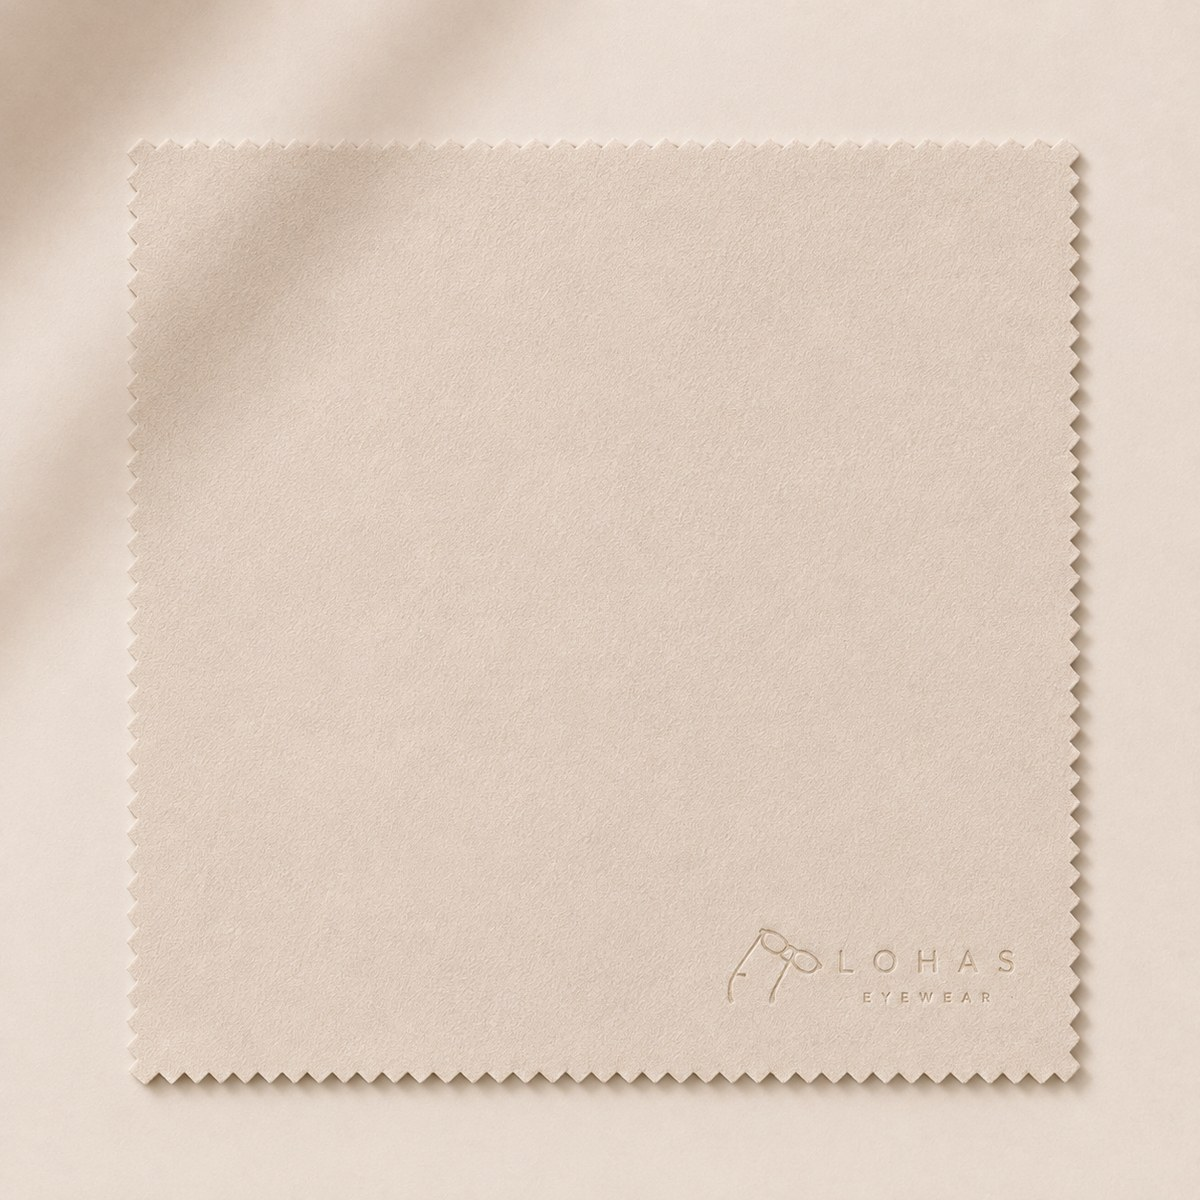
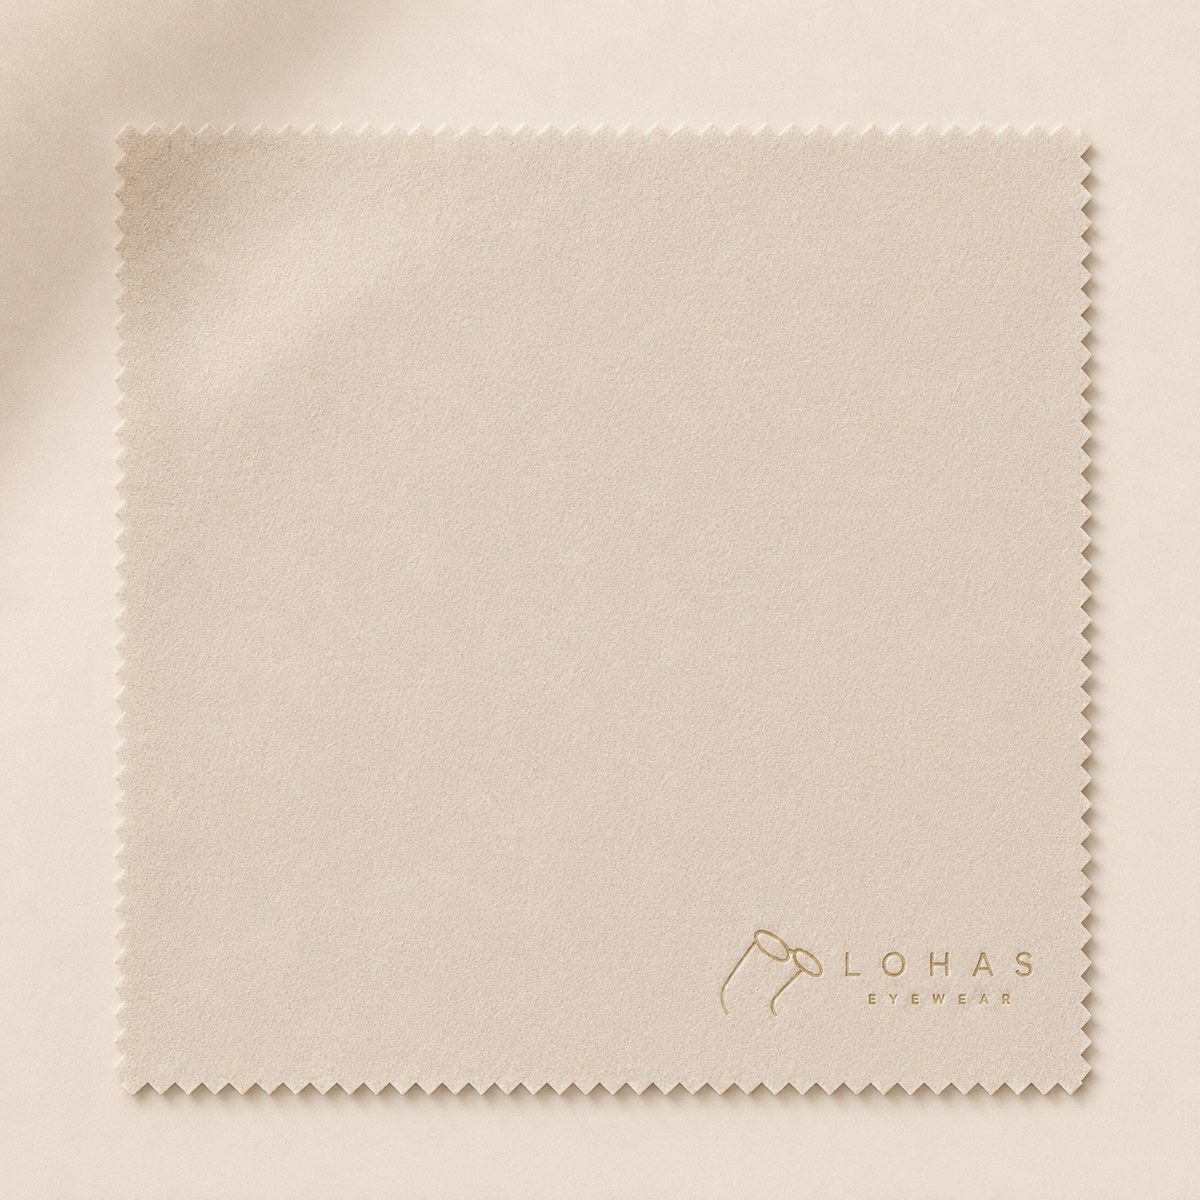
修「完成挑選」沒反應;禮物卡按鈕不再被撐開;換新的眼鏡布底圖
1. ⚠「完成挑選」按了沒反應(今天早上自己埋的)
   加 ALLOW_MID_CHECKOUT 時把 pick 也算進「需要客編」:
     needsErp = !ALLOW_MID_CHECKOUT || State.gift || State.pickGiftId
   旗標是關的,所以每個未綁定的收禮人按下去都被 blockedByErp 擋掉,
   而錯誤訊息在畫面上方,看起來就像沒反應。
   pick 不碰商城、gift 函式也認 claimed_by_mid —— 它從來就不需要客編。
   改成 needsErp = !State.pickGiftId && (State.gift || !ALLOW_MID_CHECKOUT)

2. 禮物卡的 .gf-foot 原本是 space-between
   一顆按鈕時看起來是「按鈕靠左、說明靠右」剛好;兩顆時中間被撐開,
   像兩個不相干的東西。改成靠左排,說明只要前面有按鈕就自己占一行
   (它多半是一兩句完整的話,擠在按鈕旁會被壓成很窄一欄)。

3. images/cloth-base.jpg 換成新版(1200×1200,237 KB)。
   檔名不變所以加 ?v=20260827 —— 這個檔沒有版號,回訪者會拿到快取。

diff --git a/js/design.js b/js/design.js
@@ -1074,9 +1074,15 @@
     var needDesign = !(State.gift && State.giftMode === 'recipient');
     if ((needDesign && !State.design) || !State.product) return;
 
-    /* 單純買一件在 A 路線開啟後不需要客編;送禮與挑禮物仍然需要
-       (gift 函式的 create / pick 以客編為索引)。 */
-    var needsErp = !CONFIG.ALLOW_MID_CHECKOUT || State.gift || State.pickGiftId;
+    /* 哪些動作真的需要 ERP 客編:
+         挑禮物(pick)  —— 不需要。它不碰商城,送禮人早就付過款了,
+                          而 gift 函式那端認 claimed_by_mid。
+                          ⚠ 2026-08-27 修:這裡原本把 pick 也算進去,
+                          於是未綁定的收禮人按「完成挑選」什麼都不會發生。
+         送禮(create)  —— 需要。gift 函式以客編為索引建立禮物。
+         單純買一件    —— 看 ALLOW_MID_CHECKOUT 這個旗標。 */
+    var needsErp = !State.pickGiftId &&
+                   (State.gift || !CONFIG.ALLOW_MID_CHECKOUT);
     if (needsErp && blockedByErp()) return;
     if (State.pickGiftId) { submitPick(); return; }
     if (State.gift) { createGift(); return; }

diff --git a/member-portal.html b/member-portal.html
@@ -19,7 +19,7 @@ j=d.createElement(s),dl=l!='dataLayer'?'&l='+l:'';j.async=true;j.src=
   <!-- LOHAS CSS · 載入順序: tokens → components → page -->
   <link rel="stylesheet" href="css/lohas-tokens.css?v=20260510-1720">
   <link rel="stylesheet" href="css/lohas-components.css?v=20260510-1720">
-  <link rel="stylesheet" href="css/member-portal.css?v=20260827-emptycta">
+  <link rel="stylesheet" href="css/member-portal.css?v=20260827-footfix">
 
   <!-- 上傳 modal 所需資源 -->
   <link rel="stylesheet" href="https://cdnjs.cloudflare.com/ajax/libs/cropperjs/1.6.2/cropper.min.css">
@@ -789,7 +789,7 @@ height="0" width="0" style="display:none;visibility:hidden"></iframe></noscript>
 <script src="js/subcategories.js?v=20260514"></script>
 <script src="js/upload-design.js?v=20260825-noreview3"></script>
 <script src="js/member-portal.js?v=20260825-mycloth"></script>
-<script src="js/gift-center.js?v=20260827-emptycta"></script>
+<script src="js/gift-center.js?v=20260827-footfix"></script>
 <script src="js/upload.js?v=20260819-erp"></script>
 <script src="js/cloth-mine.js?v=20260825e"></script>
 

diff --git a/css/member-portal.css b/css/member-portal.css
@@ -3122,10 +3122,21 @@ body {
 .mp .gf-meta i{ margin-right:5px }
 
 .mp .gf-foot{
-  display:flex; align-items:center; justify-content:space-between;
+  display:flex; align-items:center;
+  /* ⚠ 不要用 space-between。
+     一顆按鈕時它看起來是「按鈕靠左、說明靠右」,剛好;
+     但兩顆按鈕時中間會被撐開,像是兩個不相干的東西。
+     改成靠左排,按鈕自然成組,說明另外處理(見下)。 */
+  justify-content:flex-start;
   gap:10px; flex-wrap:wrap;
   margin-top:12px; padding-top:12px;
   border-top:1px dashed var(--lohas-line);
+}
+/* 說明只要前面有按鈕就自己占一行 ——
+   它多半是一兩句完整的話,擠在按鈕旁邊會被壓成很窄的一欄。
+   只有說明沒有按鈕的卡片維持原樣(它就是那一行的全部)。 */
+.mp .gf-foot > .gf-hint:not(:first-child){
+  flex-basis:100%; margin:2px 0 0;
 }
 .mp .gf-hint{
   font-size:12px; color:var(--lohas-mute); letter-spacing:.3px;

diff --git a/cloth.html b/cloth.html
@@ -61,7 +61,7 @@
     <!-- ===== 左:預覽 ===== -->
     <div class="cl-left">
       <div class="cl-stage" id="clStage">
-        <img class="cl-base" id="clBase" src="images/cloth-base.jpg"
+        <img class="cl-base" id="clBase" src="images/cloth-base.jpg?v=20260827"
              alt="樂活眼鏡布" draggable="false">
         <!-- 刻圖疊在布上。位置與大小由右側控制,也可以直接拖曳 -->
         <div class="cl-overlay" id="clOverlay" style="display:none"></div>
@@ -178,6 +178,6 @@
 <script src="https://cdn.jsdelivr.net/npm/imagetracerjs@1.2.6/imagetracer_v1.2.6.min.js"></script>
 <script src="js/subcategories.js?v=20260513-2330"></script>
 <script src="js/upload-design.js?v=20260825-noreview3"></script>
-<script src="js/cloth.js?v=20260825q"></script>
+<script src="js/cloth.js?v=20260827-newbase"></script>
 </body>
 </html>

diff --git a/js/cloth.js b/js/cloth.js
@@ -28,7 +28,7 @@
        那一張還被 upload-design.js 的「刻在不同載體上的樣子」與
        birthday-wall.js 用著,而前者把位置寫死成 x:72 y:60 ——
        那組數字是照舊照片調的,共用一個檔名就會連帶把它們弄歪。 */
-    BASE_IMG: 'images/cloth-base.jpg',
+    BASE_IMG: 'images/cloth-base.jpg?v=20260827',
     /* 預設落點:置中偏上。
        新底圖是平放的正方形,右下角有 LOHAS EYEWEAR 的燙印 ——
        落在 y=0.58 以下會壓到那個標,所以往上移。

diff --git a/design.html b/design.html
@@ -218,6 +218,6 @@ height="0" width="0" style="display:none;visibility:hidden"></iframe></noscript>
 <script src="js/auth.js?v=20260817-appmember"></script>
 <script src="js/supabase.js?v=20260513-2300"></script>
 <script src="js/layout.js?v=20260819-erp"></script>
-<script src="js/design.js?v=20260827-pickopen"></script>
+<script src="js/design.js?v=20260827-pickerp"></script>
 </body>
 </html>
